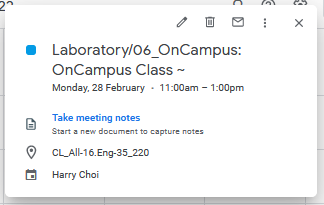
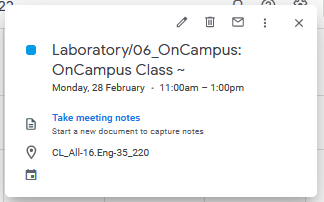
added pictures

diff --git a/README.md b/README.md
@@ -1,10 +1,10 @@
 # Allocics.js 2
 One-click export of Allocate+ timetables to ICS format for Google Calendar, Apple Calendar, etc.
 ## Improvements
-This fork makes some needed improvements to [RunasSudo's version](https://github.com/RunasSudo/allocics.js).
+This fork (shown right) makes some needed improvements to [RunasSudo's version](https://github.com/RunasSudo/allocics.js) (shown left).
 - Names the ics file with year
 - Names events after unit
-![eventOld.png](/assets/eventOld.PNG) ![eventNew.png](/assets/eventOld.PNG)
 - Locations show building addresses
+![eventOld.png](/assets/eventOld.PNG) | ![eventNew.png](/assets/eventNew.PNG)
 ## Help wanted
 If some of your on campus events don't show addresses, please tell me all about it in Issues. If you have any other suggestions, tell me in Issues as well.
